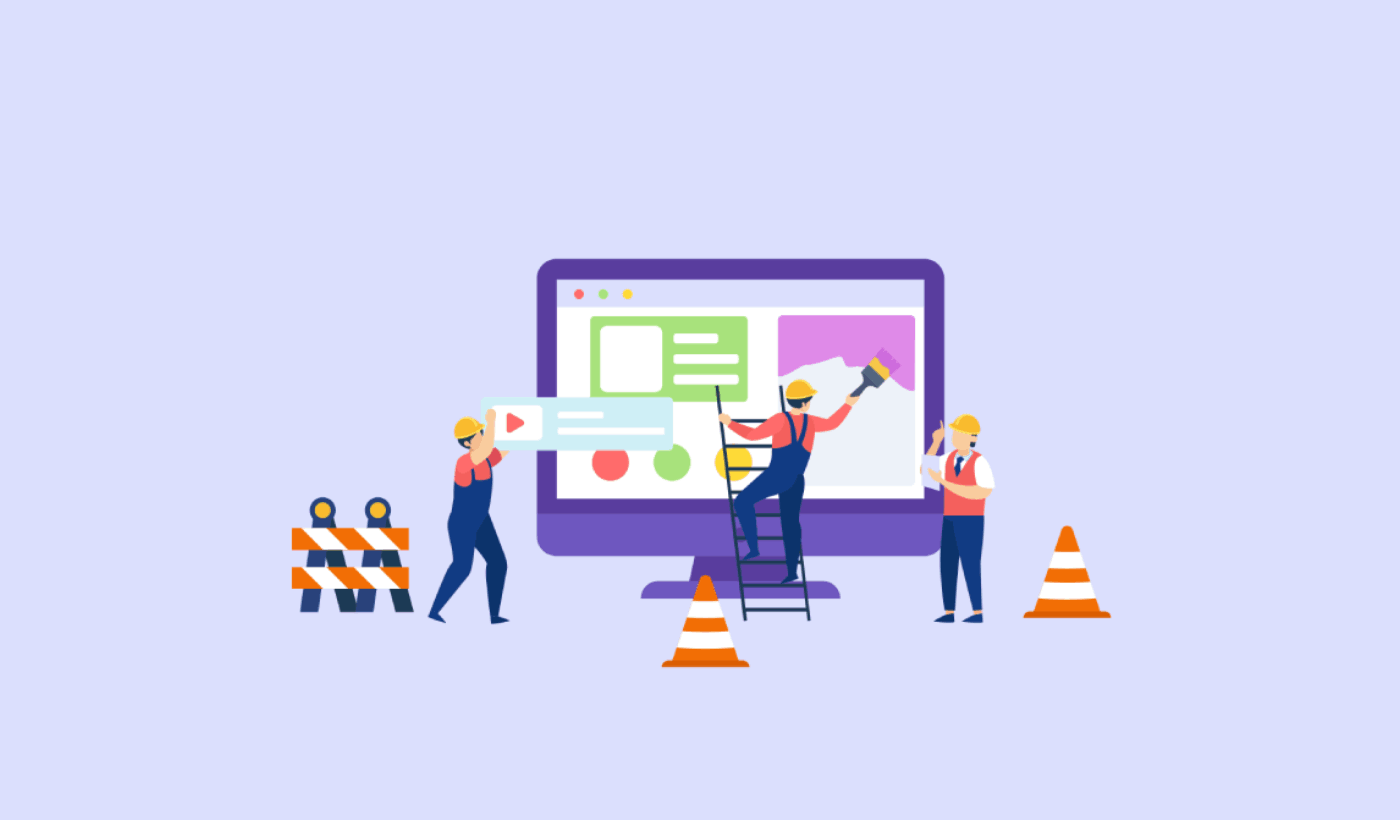
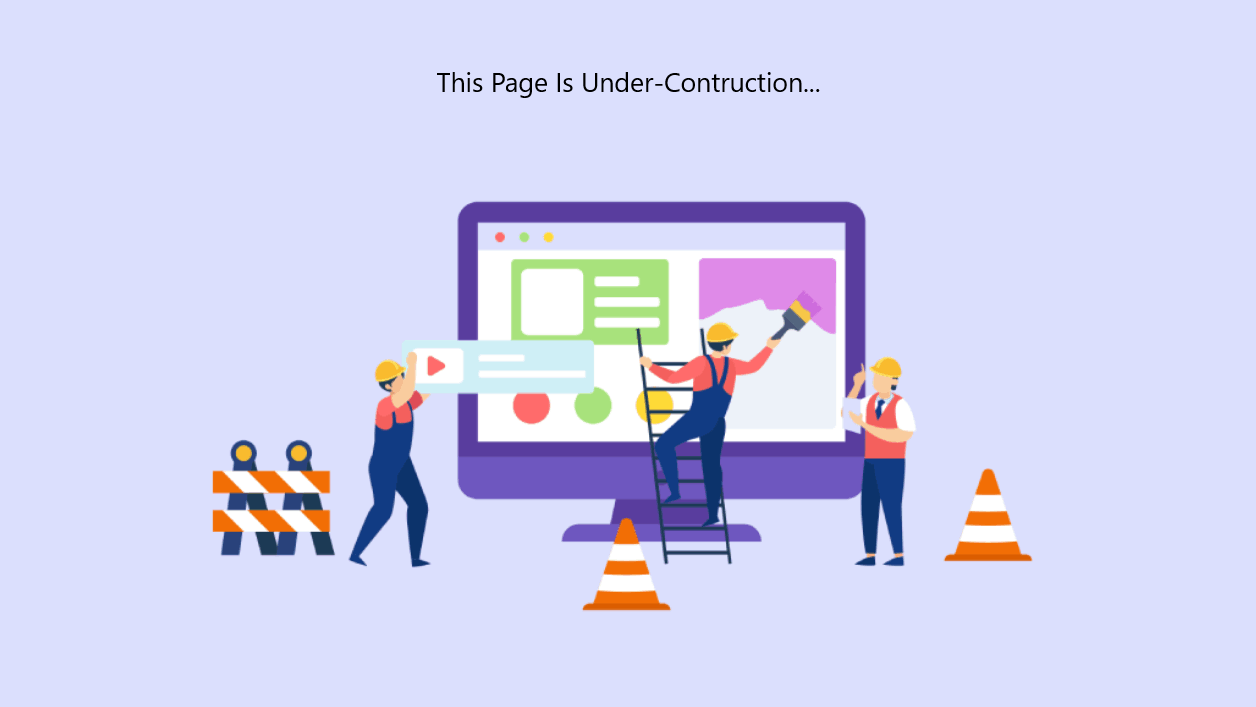
built routes for under-contruction pages & for not-found pages

Changed region(s): [[0.1553, 0.2801, 0.8384, 0.8713], [0.3416, 0.0934, 0.6521, 0.1556]]

diff --git a/controllers/shop.js b/controllers/shop.js
@@ -74,6 +74,53 @@ const renderAdminLogin = async (req, res) => {
     return res.render('admin-login', {loginErrors});
 }
 
+const renderUserUnderContructionPage = async (req, res) => {
+    try {
+        if(req.user) {
+            const userData = await userModel.findOne({_id: req.user.id});
+            return res.render('user-under-contruction-page', {userData, adminData: null, guestData: null});
+        }
+    } catch (error) {
+        return res.status(500).json({message: "Server Error"});
+    }
+}
+
+const renderAdminUnderContructionPage = async (req, res) => {
+    try {
+        if(req.admin) {
+            const adminData = await adminModel.findOne({_id: req.admin.id});
+            return res.render('admin-under-contruction-page', {userData: null, adminData, guestData: null});
+        }
+    } catch (error) {
+        return res.status(500).json({message: "Server Error"});
+    }
+}
+
+const renderShopUnderContructionPage = async (req, res) => {
+    if(req.cookies.token) {
+        try {
+            const user = jwt.verify(req.cookies.token, process.env.SECRET_KEY);
+            const isUser = await userModel.findOne({_id: user.id}).select('-password');
+            const isAdmin = await adminModel.findOne({_id: user.id}).select('-password');
+            const currentSessionUser = isUser || isAdmin;
+            console.log('current seesion :', currentSessionUser);
+            if (!currentSessionUser) {
+                res.clearCookie('token');
+                return res.redirect('/');
+            } else {
+                return res.render('shop-under-contruction-page', { userData: isUser , adminData : isAdmin, guestData: null});
+            }
+        } catch (error) {
+            return res.status(500).json({message: "Server Error"});
+        }
+    }
+    const guestData = {fullname: 'Guest'};
+    return res.render('shop-under-contruction-page', {guestData, userData: null, adminData: null});
+}
+
 module.exports.renderRegisterLogin = renderRegisterLogin;
 module.exports.renderShop = renderShop;
 module.exports.renderAdminLogin = renderAdminLogin;
+module.exports.renderUserUnderContructionPage = renderUserUnderContructionPage;
+module.exports.renderAdminUnderContructionPage = renderAdminUnderContructionPage;
+module.exports.renderShopUnderContructionPage = renderShopUnderContructionPage;

diff --git a/app.js b/app.js
@@ -4,11 +4,13 @@ const path = require('path');
 const db = require('./config/mongoose-connection');
 const userRouter = require('./routes/userRouter');
 const adminRouter = require('./routes/adminRouter');
-const productRouter = require('./routes/productRouter');
 const shop = require('./routes/shop');
 require('dotenv').config();
 const expressSession = require('express-session');
 const flash = require('connect-flash');
+const jwt = require('jsonwebtoken');
+const userModel = require('./models/user-model');
+const adminModel = require('./models/admin-model');
 
 const app = express();
 
@@ -37,8 +39,26 @@ app.set('view engine', 'ejs');
 
 app.use('/', shop);
 app.use('/users', userRouter);
-app.use('/products', productRouter);
 app.use('/admins', adminRouter);
+app.use(async (req, res, next) => {
+    if(req.cookies.token) {
+        try {
+            const user = jwt.verify(req.cookies.token, process.env.SECRET_KEY);
+            const isUser = await userModel.findOne({_id: user.id}).select('-password');
+            const isAdmin = await adminModel.findOne({_id: user.id}).select('-password');
+            if (isUser) {
+                return res.render('not-found-page', { userData: isUser , adminData : null, guestData: null});
+            }
+            if (isAdmin) {
+                return res.render('not-found-page', { userData: null , adminData : isAdmin, guestData: null});
+            }
+        } catch (error) {
+            return res.status(500).json({message: "Server Error"});
+        }
+    }
+    const guestData = {fullname: 'Guest'};
+    return res.render('not-found-page', {guestData, userData: null, adminData: null});
+});
 
 app.listen(process.env.PORT || 5000, () => {
     console.log(`Server running @ ${process.env.PORT} PORT ... `);

diff --git a/public/javascripts/user-under-contruction-page.js b/public/javascripts/user-under-contruction-page.js
@@ -1,0 +1,12 @@
+const sidebarToggle = document.querySelector('.sidebar-toggle');
+const sidebar = document.querySelector('#sidebar');
+function toggleSidebar() {
+    sidebar.classList.toggle('collapsed');
+}
+sidebarToggle.addEventListener('click', toggleSidebar);
+
+sidebarToggle.addEventListener('click', toggleSidebar);
+const navLinks = document.querySelectorAll('.nav-link');
+navLinks.forEach(link => {
+    link.style.display = 'none';
+});

diff --git a/routes/shop.js b/routes/shop.js
@@ -2,12 +2,22 @@ const express = require('express');
 const router = express.Router();
 const jwt = require('jsonwebtoken');
 const userModel = require('../models/user-model');
-const { renderRegisterLogin, renderShop, renderAdminLogin } = require('../controllers/shop');
+const { renderRegisterLogin, renderShop, renderAdminLogin, renderShopUnderContructionPage } = require('../controllers/shop');
 
 router.get('/', renderRegisterLogin);
 
 router.get('/shop', renderShop);
 
 router.get('/admin', renderAdminLogin);
+
+router.get('/new-collections', renderShopUnderContructionPage);
+
+router.get('/all-products', renderShop);
+
+router.get('/discounted-products', renderShopUnderContructionPage);
+
+router.get('/availability', renderShopUnderContructionPage);
+
+router.get('/discount', renderShopUnderContructionPage);
 
 module.exports = router;

diff --git a/middlewares/authenticateUser.js b/middlewares/authenticateUser.js
@@ -9,8 +9,13 @@ const authenticateUser = async (req, res, next) => {
         const payload = req.cookies.token;
         const verifyUser = jwt.verify(payload, process.env.SECRET_KEY);
         const userData = await userModel.findOne({ _id : verifyUser.id }).select('-password');
-        req.user = userData;
-        next();
+        if (userData) {
+            req.user = userData;
+            next();
+        } else {
+            req.flash('error', 'Not Authorized To View This Page.');
+            return res.redirect('/');
+        }
     } catch (error) {
         return res.status(500).json({message: "Server Error"});
     }

diff --git a/routes/adminRouter.js b/routes/adminRouter.js
@@ -6,6 +6,7 @@ const { renderAdminProducts, renderAdminCreateProducts, createProduct, deleteAll
 const { authenticateAdmin } = require('../middlewares/authenticateAdmin');
 const bcrypt = require('bcrypt');
 const upload = require('../config/multer-config');
+const { renderAdminUnderContructionPage } = require('../controllers/shop');
 
 if (process.env.NODE_ENV === 'development') {
     router.post('/create', async (req, res) => {
@@ -29,10 +30,6 @@ if (process.env.NODE_ENV === 'development') {
     });
 }
 
-router.get('/', (req, res)  => {
-    res.send('admin Router');
-});
-
 router.post('/login', loginAdmin);
 
 router.get('/admin-panel/all-products', authenticateAdmin, renderAdminProducts);
@@ -42,5 +39,7 @@ router.get('/product/create', authenticateAdmin, renderAdminCreateProducts);
 router.post('/product/create', authenticateAdmin, upload.single('productImage'), createProduct);
 
 router.post('/delete-all-products', authenticateAdmin, deleteAllProducts);
+
+router.get('/account', authenticateAdmin, renderAdminUnderContructionPage);
 
 module.exports = router;

diff --git a/routes/userRouter.js b/routes/userRouter.js
@@ -4,10 +4,7 @@ const { registerUser, loginUser, logoutUser } = require('../controllers/authCont
 const { authenticateUser } = require('../middlewares/authenticateUser');
 const { addProductsToCart, renderCart, removeFromCart, placeOrder } = require('../controllers/cart');
 const { renderOrderPage, deleteOrderHistory } = require('../controllers/order');
-
-router.get('/', (req, res) => {
-    res.send('user Router');
-});
+const { renderUserUnderContructionPage } = require('../controllers/shop');
 
 router.post('/register', registerUser);
 
@@ -26,5 +23,7 @@ router.get('/order-confirmation', authenticateUser, placeOrder);
 router.get('/all-orders', authenticateUser, renderOrderPage);
 
 router.post('/delete-all-order-history', authenticateUser, deleteOrderHistory);
+
+router.get('/account', authenticateUser ,renderUserUnderContructionPage);
 
 module.exports = router;

diff --git a/public/javascripts/not-found-page.js b/public/javascripts/not-found-page.js
@@ -1,0 +1,2 @@
+const sidebarToggle = document.querySelector('.sidebar-toggle');
+sidebarToggle.style.display = 'none';